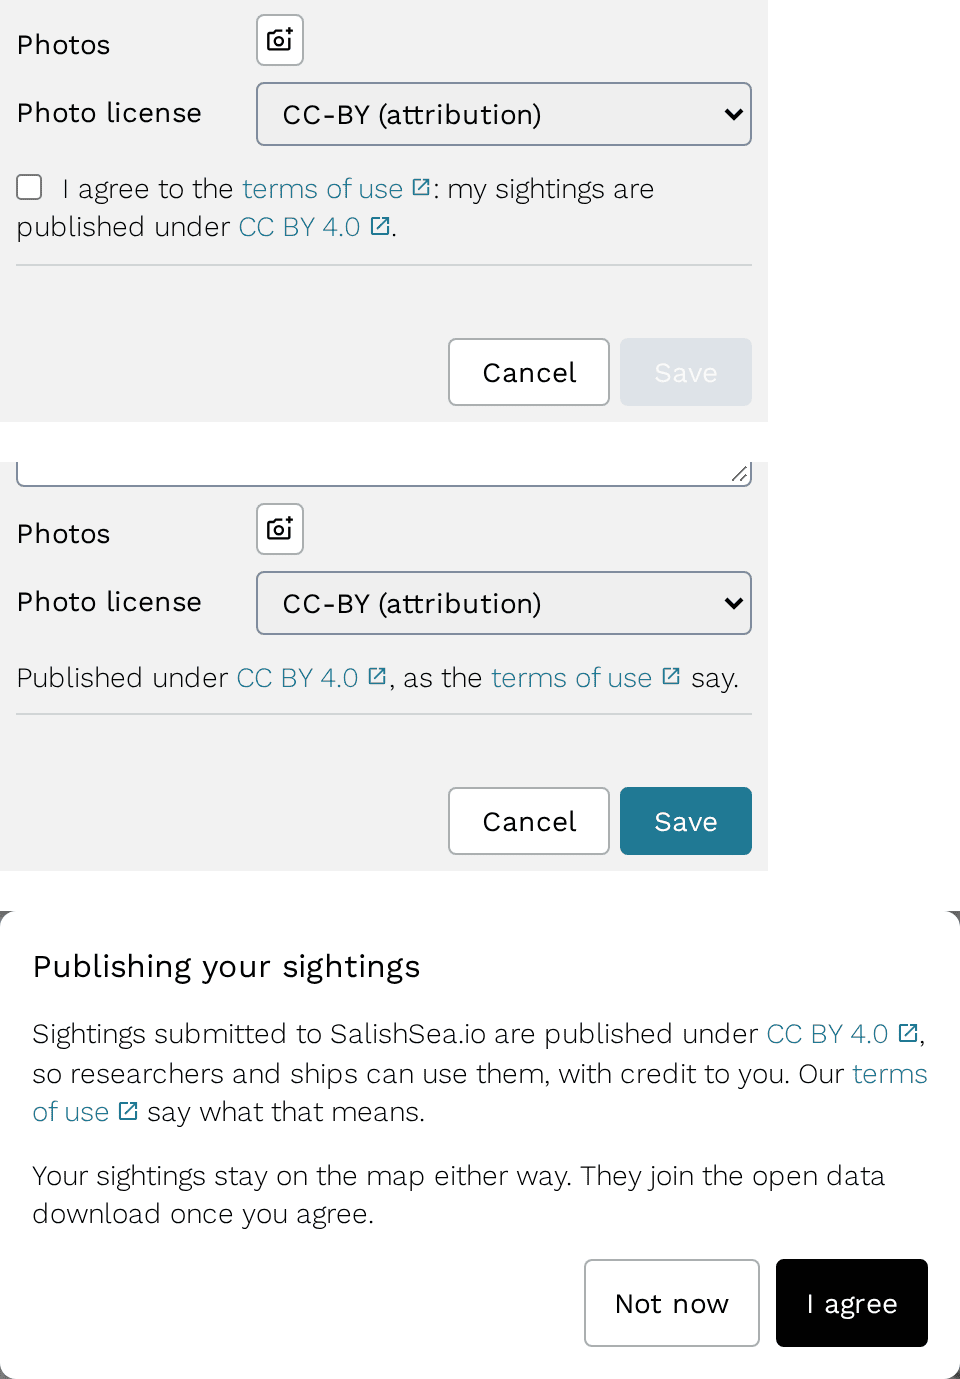
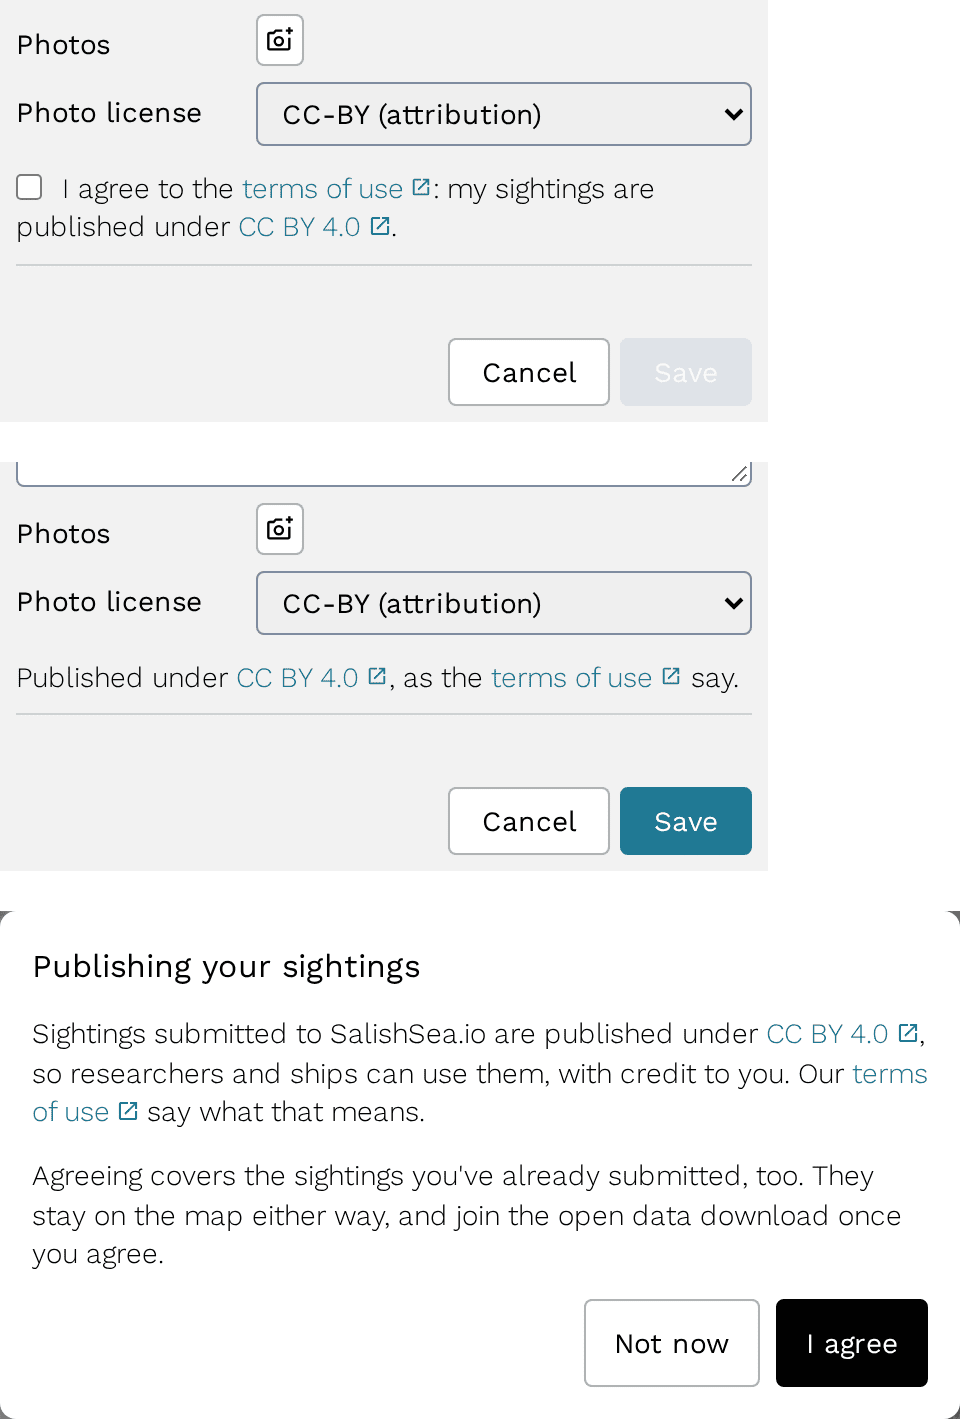
Terms: agreeing also publishes the sightings submitted before; stale CC BY-NC statements marked (salish-8gd.2, review)
The page and the prompt say that agreeing covers sightings already submitted, which the
archive relies on when it admits a contributor's earlier sightings. The rights policy's
D-06 states the agreement as its condition, and the glossary and decision 004 no longer
give CC BY-NC as the current license.

diff --git a/terms.html b/terms.html
@@ -93,7 +93,7 @@
       <p>SalishSea.io is a free, open map of marine mammal sightings around the Salish Sea, and a project of <a href="https://beamreach.blue/" target="_blank" rel="noopener noreferrer">Beam Reach LLC</a> (“we”). These terms cover what happens to the sightings you submit, and what we ask of you. If you only look at the map, or download its data, the data’s licenses below are all that apply.</p>
       <h2>When you submit a sighting</h2>
       <ul>
-        <li><strong>You publish it under <a href="https://creativecommons.org/licenses/by/4.0/" target="_blank" rel="noopener noreferrer">CC BY 4.0</a>.</strong> Anyone may copy, share and adapt it, for any purpose, including commercial ones such as helping ships avoid whales, as long as they credit you and SalishSea.io.</li>
+        <li><strong>You publish it under <a href="https://creativecommons.org/licenses/by/4.0/" target="_blank" rel="noopener noreferrer">CC BY 4.0</a>.</strong> Anyone may copy, share and adapt it, for any purpose, including commercial ones such as helping ships avoid whales, as long as they credit you and SalishSea.io. Agreeing to these terms also publishes, under the same license, the sightings you submitted before you agreed.</li>
         <li><strong>What becomes public:</strong> your display name, what you saw, when, where the animals were (and where you were, if you give it), and your notes.</li>
         <li><strong>Your photos keep the license you choose for each one.</strong> We show every photo on SalishSea.io. Only photos with a Creative Commons license or CC0 go into the data download.</li>
         <li><strong>Where your sightings go:</strong> onto the map; into SalishSea.io’s open data download, which GBIF and others may index; and to partners that share sightings for conservation and safety, such as the <a href="https://acartia.io/" target="_blank" rel="noopener noreferrer">Acartia</a> data cooperative and the systems ports use to warn ships.</li>

diff --git a/src/terms-prompt.ts b/src/terms-prompt.ts
@@ -111,7 +111,7 @@ export class TermsPrompt extends LitElement {
           so researchers and ships can use them, with credit to you. Our
           <a href=${TERMS_PATH} target="_blank" rel="noopener">terms of use</a> say what that means.
         </p>
-        <p>Your sightings stay on the map either way. They join the open data download once you agree.</p>
+        <p>Agreeing covers the sightings you've already submitted, too. They stay on the map either way, and join the open data download once you agree.</p>
         ${this.status === 'failed'
           ? html`<p class="failed" role="alert">That didn't reach us. Check your connection and try again.</p>`
           : nothing}

diff --git a/src/terms-prompt.test.ts b/src/terms-prompt.test.ts
@@ -36,6 +36,7 @@ describe('the terms prompt', () => {
     const {root, dialog} = await opened();
     expect(dialog.open).toBe(true);
     expect(root.textContent).toMatch(/published under\s+CC BY 4\.0/);
+    expect(root.textContent).toMatch(/covers the sightings you've already submitted/);
     expect(root.textContent).toMatch(/stay on the map either way/);
     expect(root.querySelector('a[href="/terms.html"]')).not.toBeNull();
   });

diff --git a/CONTEXT.md b/CONTEXT.md
@@ -60,7 +60,7 @@ Shared vocabulary for SalishSea.io. Use these terms as defined here, in code and
 - **SRC-01** — the export-exclusion rule: iNaturalist and HappyWhale records are modeled internally but excluded from the DwC-A because they self-publish to GBIF; re-exporting would create duplicates. Enforced by construction (UNION of exactly two branches), never by WHERE filter.
 - **GBIF / OBIS** — the global biodiversity databases the export targets. GBIF dedup matches coords+date, not occurrenceID — hence SRC-01.
 - **dwc schema** — the read-only Postgres schema that is the export contract (view-as-contract: column/type parity enforced at CREATE VIEW time).
-- **License (per-record)** — native SalishSea.io records export as **CC-BY-NC 4.0**; Maplify / Whale Alert records as **CC-BY 4.0** (asserted via the Acartia cooperative). The per-record `license` column is authoritative; the dataset-level `eml.xml` license is CC-BY-NC 4.0. Full policy: [docs/rights-policy.md](docs/rights-policy.md).
+- **License (per-record)** — every record exports as **CC-BY 4.0**: native SalishSea.io records under the **terms of use** their contributor agreed to (CC-BY-NC 4.0 until 2026-10-30), Maplify / Whale Alert records as asserted via the Acartia cooperative. The per-record `license` column is authoritative; the dataset-level `eml.xml` license is CC-BY 4.0 too. Full policy: [docs/rights-policy.md](docs/rights-policy.md).
 
 - **Read path** — what a *logged-out* visitor loads: the map's day of sightings, the calendar's counts, the catalogue, and the profile pages' occurrence lists. Being built as static files from a **snapshot** of the database (decision [056](docs/decisions/056-the-logged-out-read-path-is-built-as-static-files.md)), so it no longer needs Postgres to be up. Signed-in reads and every write are not part of it.
 - **Snapshot** (of the read path) — the local DuckDB copy a read-path build starts from, taken from Postgres and never written back. Everything after the snapshot reads the copy, so a build's inputs hold still and the same snapshot always builds the same files.

diff --git a/docs/decisions/004-rights-and-licensing.md b/docs/decisions/004-rights-and-licensing.md
@@ -10,7 +10,7 @@ All rights, licensing, and attribution questions were resolved in a single polic
 
 ## Key points
 
-- **Per-source license, not one constant:** native records = CC-BY-NC 4.0; Maplify/Whale Alert = CC-BY 4.0 (contributors assert CC-BY at Acartia registration — the cooperative layer resolves redistribution rights upstream). Canonical `/legalcode` URIs (GBIF's parser requires them).
+- **Per-source license, not one constant:** native records = CC-BY-NC 4.0 (*superseded 2026-10-30: CC-BY 4.0 under the terms of use, per the amendment above*); Maplify/Whale Alert = CC-BY 4.0 (contributors assert CC-BY at Acartia registration — the cooperative layer resolves redistribution rights upstream). Canonical `/legalcode` URIs (GBIF's parser requires them).
 - **Whale Alert disambiguation (load-bearing):** the source is `whalealert.org` / Conserve.IO (marine mammal app, WASEAK API). `whale-alert.io` is an unrelated crypto service — its ToS are irrelevant. An earlier draft wrongly concluded "no redistribution license stated" by missing the Acartia layer.
 - **Photo licensing:** per-photo license converter to canonical CC URIs; `none` (terminal: no license) and `NULL` (non-terminal: unclassified) are distinct CASE branches — both excluded today, but the split preserves a future "classify your photos" hook. Maplify photos excluded entirely (no license column).
 - **`coordinateUncertaintyInMeters`: emit when known, omit when NULL, never 0** (invalid per TDWG).

diff --git a/docs/rights-policy.md b/docs/rights-policy.md
@@ -235,7 +235,7 @@ The column is sparse: omitting it means "count unknown," not "count = 0." This i
 - **Mechanism:** Nightly job (Phase 7) publishes the archive to the stable `/dwca/` URL as designed. Only the frontend link (Phase 8) is suppressed. State = "unlisted," not private.
 - **Exit criteria:** Both (a) QA pass on Maplify records, and (b) courtesy notifications sent (acknowledgment not required for the secondary rationale — sent + reasonable response window is sufficient).
 
-**Native-only public eligibility (D-06):** Native records may be publicly linked independently of the Maplify QA gate, subject to the D-08 consent notice (§1.3) being in place. Unchanged by D-20. *Amended 2026-10-30: a native record is published once its contributor has agreed to the terms of use (§1.3, as replaced).*
+**Native-only public eligibility (D-06):** Native records may be publicly linked independently of the Maplify QA gate, once their contributor has agreed to the terms of use (§1.3). *Amended 2026-10-30: the condition was the D-08 consent notice, which never shipped and is replaced.*
 
 **Open question — D-07 (flagged for Phase 7/8 planner):** Unchanged. D-06 still implies a possible native-only archive variant; the implementation choice (separate archive vs. build-time filter) is for the Phase 7/8 planner.
 
